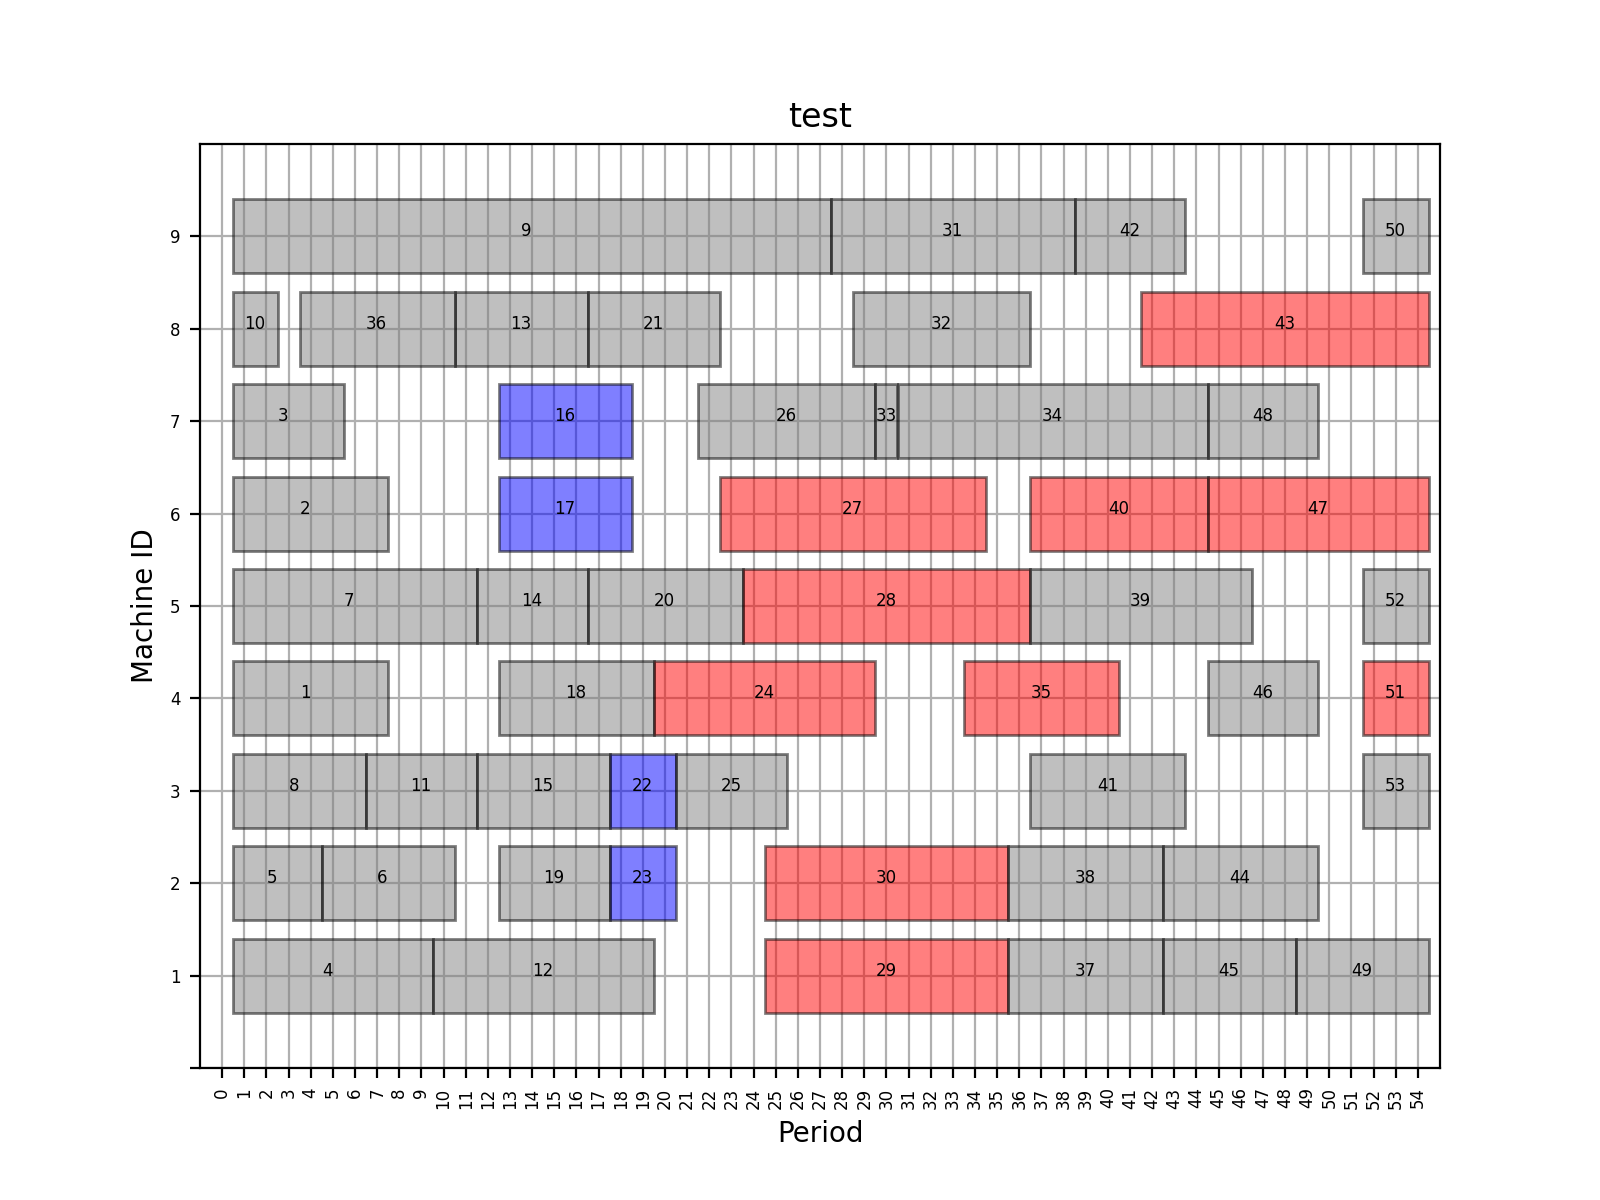
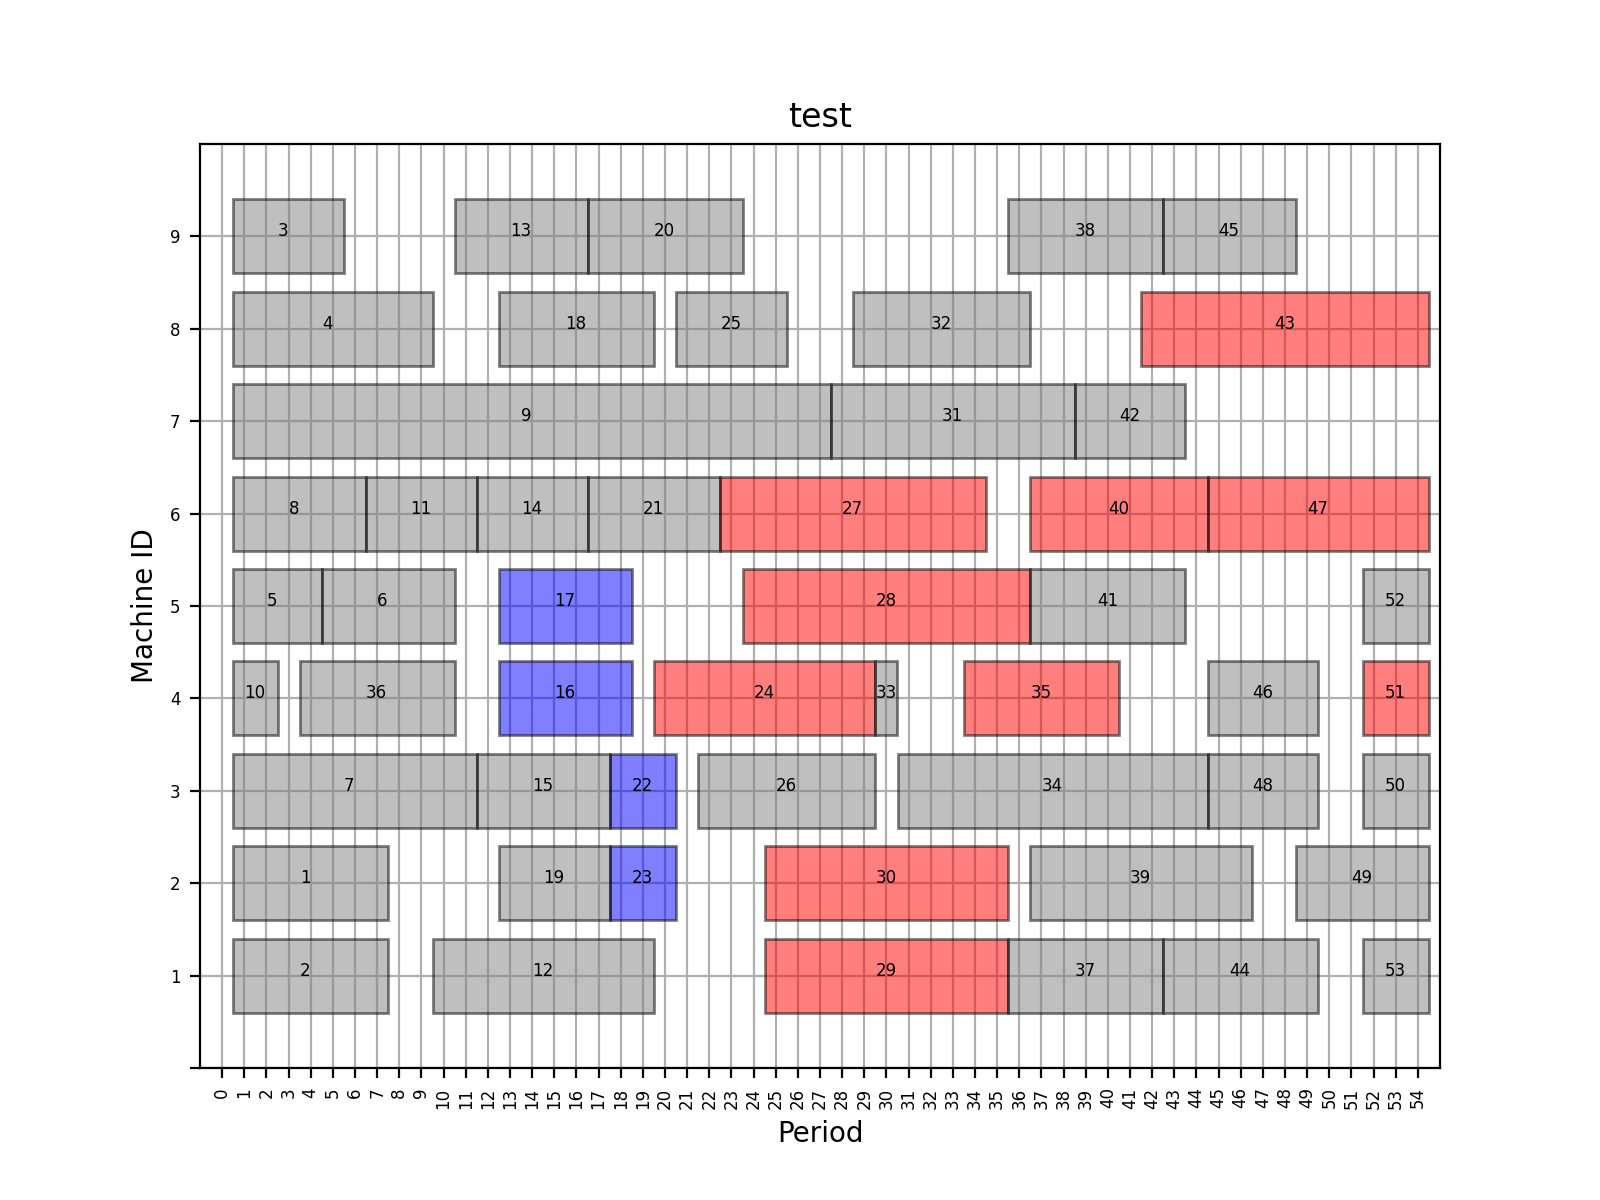
Relabeling

diff --git a/Scripts/Data.py b/Scripts/Data.py
@@ -16,17 +16,17 @@ import matplotlib.pyplot as plt
 from matplotlib.patches import Rectangle
 
 class RawSchedule:
-	def __init__(self, scheduleFile, roomInfoFile):
-		self.ArrivalKey = "arrOrdinal"
-		self.DepartureKey = "depOrdinal"
+	def __init__(self, scheduleFile, machineInfoFile):
+		self.StartKey = "startOrdinal"
+		self.FinishKey = "finishOrdinal"
 		self.IsLockedKey = "IsLocked"
 		self.AdjacencyGroupKey = "AdjacencyGroup"
-		self.RoomKey = "Room"
+		self.MachineKey = "Machine"
 		self.LengthKey = "Length"
-		self.RoomNumberKey = "RoomNumber"
-		self.GroupNameKey = "GuestGroupName"
+		self.MachineNumberKey = "MachineId"
+		self.GroupNameKey = "JobId"
 		self.Schedule = self.ReadFile(scheduleFile, True)
-		self.RoomInfo = self.ReadFile(roomInfoFile, False)
+		self.MachineInfo = self.ReadFile(machineInfoFile, False)
 	
 	def ReadFile(self, filePath, reformat):
 		df = pd.read_csv(filePath)
@@ -35,14 +35,14 @@ class RawSchedule:
 		return(df)
 	
 	def ReformatSchedule(self, sched):
-		sched["Arrival"] = pd.to_datetime(sched["RoomArrival"]).dt.date
-		sched["Departure"] = pd.to_datetime(sched["RoomDeparture"]).dt.date
-		sched = sched.drop(["RoomArrival","RoomDeparture"],axis=1)
+		sched["Start"] = pd.to_datetime(sched["JobStart"]).dt.date
+		sched["Finish"] = pd.to_datetime(sched["JobFinish"]).dt.date
+		sched = sched.drop(["JobStart","JobFinish"],axis=1)
 		# convert the dates to ordinal values. These are convenient for operating on the intervals.
-		sched[self.ArrivalKey] = sched["Arrival"].apply(lambda x: x.toordinal())
-		sched[self.DepartureKey] = sched["Departure"].apply(lambda x: x.toordinal())
+		sched[self.StartKey] = sched["Start"].apply(lambda x: x.toordinal())
+		sched[self.FinishKey] = sched["Finish"].apply(lambda x: x.toordinal())
 		# compute the length of the Jobs, needed for the sorting in the heuristic approaches.
-		sched['Length'] = sched[self.DepartureKey] - sched[self.ArrivalKey]
+		sched['Length'] = sched[self.FinishKey] - sched[self.StartKey]
 		sched["DummyLength"] = np.zeros(len(sched))
 		
 		return(sched)
@@ -50,12 +50,12 @@ class RawSchedule:
 
 class InputData:
 	def __init__(self, minJob = 5, maxDummy = 3):
-		self.Rooms = []
+		self.Machines = []
 		
-		self.NumberOfRooms = 0
+		self.NumberOfMachines = 0
 		
-		self.AdjacentRooms = []
-		self.RoomAdjacencyLists = {}
+		self.AdjacentMachines = []
+		self.MachineAdjacencyLists = {}
 		self.JobAdjacencyLists = {}
 		
 		self.NumberOfRealReservations = 0
@@ -68,7 +68,7 @@ class InputData:
 		self.JobDict = {}
 		self.StartDict = {}
 		self.LengthDict = {}
-		self.FixedRooms = {}
+		self.FixedMachines = {}
 		
 		self.DummyJobs = {}
 		
@@ -91,37 +91,15 @@ class InputData:
 		self.TestMaxName = "test_max"
 	
 
-	def LoadFromJson(self, jsonInput):
-		# do some stuff... 
-		return()
-	
-	def AddNewReservation(self, startDate, length):
-		self.ClearDummyJobs()
-		key = len(self.JobDict)
-		
-		self.GroupDict[key] = self.TestMaxName
-		
-		self.JobDict[key] = [startDate, startDate + length]
-		self.StartDict[key] = startDate
-		self.LengthDict[key] = length
-		
-		return(key)
-	
-	
-	def RemoveNewReservation(self, key):
-		del(self.GroupDict[key])
-		del(self.JobDict[key])
-		del(self.StartDict[key])
-		del(self.LengthDict[key])
-		return()
+
 	
 	
 	def FillAdjacencyInfo(self, rawInput):
 		sched = rawInput.Schedule
-		roomInfo = rawInput.RoomInfo
+		MachineInfo = rawInput.MachineInfo
 		
 		adjGrpKey = rawInput.AdjacencyGroupKey
-		roomKey = rawInput.RoomKey
+		MachineKey = rawInput.MachineKey
 			
 		adjacentJobDict = {}
 		for i in range(len(sched)):
@@ -133,22 +111,22 @@ class InputData:
 		
 		self.JobAdjacencyLists = adjacentJobDict
 		
-		for i in range(len(roomInfo)-1):
-			for j in range(i+1,len(roomInfo)):
-				if roomInfo[str(roomInfo[roomKey][j])][i] == 1:
-					if roomInfo[roomKey][i] not in self.RoomAdjacencyLists:
-						self.RoomAdjacencyLists[roomInfo[roomKey][i]] = []
-						self.AdjacentRooms.append(roomInfo[roomKey][i])
+		for i in range(len(MachineInfo)-1):
+			for j in range(i+1,len(MachineInfo)):
+				if MachineInfo[str(MachineInfo[MachineKey][j])][i] == 1:
+					if MachineInfo[MachineKey][i] not in self.MachineAdjacencyLists:
+						self.MachineAdjacencyLists[MachineInfo[MachineKey][i]] = []
+						self.AdjacentMachines.append(MachineInfo[MachineKey][i])
 				
-					if roomInfo[roomKey][j] not in self.RoomAdjacencyLists:
-						self.RoomAdjacencyLists[roomInfo[roomKey][j]] = []
-						self.AdjacentRooms.append(roomInfo[roomKey][j])
+					if MachineInfo[MachineKey][j] not in self.MachineAdjacencyLists:
+						self.MachineAdjacencyLists[MachineInfo[MachineKey][j]] = []
+						self.AdjacentMachines.append(MachineInfo[MachineKey][j])
 		
-					self.RoomAdjacencyLists[roomInfo[roomKey][i]].append(roomInfo[roomKey][j])
-					self.RoomAdjacencyLists[roomInfo[roomKey][j]].append(roomInfo[roomKey][i])
+					self.MachineAdjacencyLists[MachineInfo[MachineKey][i]].append(MachineInfo[MachineKey][j])
+					self.MachineAdjacencyLists[MachineInfo[MachineKey][j]].append(MachineInfo[MachineKey][i])
 		
-		self.Rooms = np.unique(np.array(roomInfo[roomKey]))
-		self.NumberOfRooms = len(self.Rooms)
+		self.Machines = np.unique(np.array(MachineInfo[MachineKey]))
+		self.NumberOfMachines = len(self.Machines)
 
 	
 	def FillStartAndEndInfo(self, rawInfo, endExtension = -1, startExtension = -1):	
@@ -160,8 +138,8 @@ class InputData:
 		ACTUALLY let the limit be an input, and then it will go to 
 		min(limit, maxEnd + minJob + 1)
 		'''
-		startDates = np.unique(np.array(rawInfo.Schedule[rawInfo.ArrivalKey]))
-		endDates = np.unique(np.array(rawInfo.Schedule[rawInfo.DepartureKey]))
+		startDates = np.unique(np.array(rawInfo.Schedule[rawInfo.StartKey]))
+		endDates = np.unique(np.array(rawInfo.Schedule[rawInfo.FinishKey]))
 		self.MinStart = min(startDates)
 		self.MaxStart = max(startDates)
 		self.MaxEnd = max(endDates)
@@ -179,15 +157,15 @@ class InputData:
 	def FillRealJobInfo(self, rawInfo):
 		sched = rawInfo.Schedule
 		self.NumberOfRealReservations = len(sched)
-		arr = rawInfo.ArrivalKey
-		dep = rawInfo.DepartureKey
+		arr = rawInfo.StartKey
+		dep = rawInfo.FinishKey
 		for i in range(self.NumberOfRealReservations):
 			self.GroupDict[i] = sched[rawInfo.GroupNameKey][i]
 			self.JobDict[i] = [sched[arr][i],sched[dep][i]]
 			self.StartDict[i] = sched[arr][i]
 			self.LengthDict[i] = sched[rawInfo.LengthKey][i]
 			if sched[rawInfo.IsLockedKey][i] == 1:
-				self.FixedRooms[i] = int(sched[rawInfo.RoomNumberKey][i])
+				self.FixedMachines[i] = int(sched[rawInfo.MachineNumberKey][i])
 	
 	
 	
@@ -266,32 +244,32 @@ class InputData:
 			size = (12,12)
 			
 		fig, ax = plt.subplots(figsize = size)   
-		ax.set_ylim(1,self.NumberOfRooms + 1)
+		ax.set_ylim(1,self.NumberOfMachines + 1)
 		ax.set_xlim(-1, self.ScheduleEnd-self.ScheduleStart + 1)
 		ax.set_axisbelow(True)
-		roomMap = {}
+		MachineMap = {}
 		maxY = 0
 		rmSigns = {}
-		for i in range(self.NumberOfRooms):
-			roomMap[self.Rooms[i]] = i + 1
-			rmSigns[self.Rooms[i]] = 1.0
+		for i in range(self.NumberOfMachines):
+			MachineMap[self.Machines[i]] = i + 1
+			rmSigns[self.Machines[i]] = 1.0
 			maxY =i+2
 	
 		tcks = np.arange(self.ScheduleStart, self.ScheduleEnd + 1)
 		tcks = [t - self.ScheduleStart for t in tcks]
-		rmtcks = np.arange(self.NumberOfRooms + 1)
+		rmtcks = np.arange(self.NumberOfMachines + 1)
 		
 		#plt.text(0.5,1,"Start", fontsize = fontSize)
 		#plt.text(self.ScheduleEnd - self.ScheduleStart - 0.5,1,"end", fontsize = fontSize)	
 		if self.BoundSchedule:
-			ax.add_patch(Rectangle((0,0), width = 0.5, height=self.NumberOfRooms+1, alpha=0.3,
+			ax.add_patch(Rectangle((0,0), width = 0.5, height=self.NumberOfMachines+1, alpha=0.3,
 									   edgecolor = 'black', facecolor = 'black'))
-			ax.add_patch(Rectangle((self.ScheduleEnd - self.ScheduleStart + 0.5,0), width = 0.5, height=self.NumberOfRooms+1, alpha=0.3,
+			ax.add_patch(Rectangle((self.ScheduleEnd - self.ScheduleStart + 0.5,0), width = 0.5, height=self.NumberOfMachines+1, alpha=0.3,
 									   edgecolor = 'black', facecolor = 'black'))
 		
 		
 		for i in assignments:
-			rm = roomMap[assignments[i]]
+			rm = MachineMap[assignments[i]]
 			JobLength = test[1] 
 			start = test[0]
 			if i in self.JobDict:
@@ -299,7 +277,7 @@ class InputData:
 				start = self.JobDict[i][0]
 			
 			color = 'gray'
-			if i in self.FixedRooms:
+			if i in self.FixedMachines:
 				color = 'red'
 			for s in self.JobAdjacencyLists:
 				if i in self.JobAdjacencyLists[s]:
@@ -327,7 +305,7 @@ class InputData:
 		
 		plt.grid()
 		labels = ['']
-		for r in self.Rooms:
+		for r in self.Machines:
 			labels.append(str(r))
 		plt.xticks(ticks = tcks, labels = tcks, rotation='vertical', fontsize = 6)
 		plt.yticks(ticks = rmtcks,labels = labels, fontsize = 6)

diff --git a/Scripts/Optimization.py b/Scripts/Optimization.py
@@ -76,7 +76,7 @@ class Solver:
 			dummy = i in self.DummyJobs
 			if dummy and checkDummyAssignments:
 				
-				for j in rooms:
+				for j in Machines:
 				
 					dVal = self.Model.getVal(self.DummyAssignmentVars[i,j])
 					aVal = self.Model.getVal(self.AssignmentVars[i,j])
@@ -89,7 +89,7 @@ class Solver:
 					newSol.AssignmentValues[i,j] = aVal
 						
 			elif not dummy:
-				for j in self.Inputs.Rooms:
+				for j in self.Inputs.Machines:
 					aVal = self.Model.getVal(self.AssignmentVars[i,j])
 					if aVal > 0.99:
 						self.OptimizationAssignments[i] = j
@@ -139,7 +139,7 @@ class Solver:
 		obj = 0.0
 		
 		if self.OptimizeGaps:
-			obj = quicksum(self.ObjectiveCoefficients[s]*self.AssignmentVars[s,r] for s in self.ObjectiveCoefficients for r in self.Inputs.Rooms) + 10*quicksum(self.SlackOddGroups[s,r] for s in self.AdjacentReservations for r in self.Inputs.AdjacentRooms)
+			obj = quicksum(self.ObjectiveCoefficients[s]*self.AssignmentVars[s,r] for s in self.ObjectiveCoefficients for r in self.Inputs.Machines) + 10*quicksum(self.SlackOddGroups[s,r] for s in self.AdjacentReservations for r in self.Inputs.AdjacentMachines)
 
 		self.Model.setObjective(obj,"minimize")
 
@@ -182,22 +182,22 @@ class Solver:
 	def AddAssignmentModel(self, addDummyIncentiveVars, dummyLimits):
 		
 		for s in self.Inputs.JobDict:
-			for r in self.Inputs.Rooms:
+			for r in self.Inputs.Machines:
 				name = str(s)+ ", " + str(r)
 				self.AssignmentVars[s,r] = self.Model.addVar(name,vtype= 'B')
 
 
 		for s in self.Inputs.JobDict:
 			
-			if s in self.Inputs.FixedRooms:
-				self.Model.addCons(self.AssignmentVars[s,self.Inputs.FixedRooms[s]] == 1)
+			if s in self.Inputs.FixedMachines:
+				self.Model.addCons(self.AssignmentVars[s,self.Inputs.FixedMachines[s]] == 1)
 				
 			if self.Inputs.GroupDict[s] == -1: # i.e. if it's a dummy Job
 				
 				length = self.Inputs.LengthDict[s]
 				self.DummyJobs.append(s)
 		
-				maxGaps = self.Inputs.NumberOfRooms
+				maxGaps = self.Inputs.NumberOfMachines
 				
 				'''
 				TODO - Think about whether this is necessary! 
@@ -220,7 +220,7 @@ class Solver:
 					print("reduced the dummy limits")
 					maxGaps = dummyLimits[(self.Inputs.JobDict[s][0], length)]
 				
-				self.Model.addCons(quicksum(self.AssignmentVars[s,r] for r in self.Inputs.Rooms) <= maxGaps)
+				self.Model.addCons(quicksum(self.AssignmentVars[s,r] for r in self.Inputs.Machines) <= maxGaps)
 				# this incentivizes gaps longer than min Job length
 				extra = 0
 				if length <= self.Inputs.MinJob + 2:
@@ -231,14 +231,14 @@ class Solver:
 				if addDummyIncentiveVars:
 					
 				
-					for r in rooms:
+					for r in Machines:
 						self.DummyIncentiveVars[s,r] = m.addVar(name,vtype= 'B')
 						self.Model.addCons(self.DummyIncentiveVars[s,r] <= self.AssignmentVars[s,r])
 				
-					self.Model.addCons(quicksum(self.DummyIncentiveVars[s,r] for r in self.Inputs.Rooms) <= 1)				
+					self.Model.addCons(quicksum(self.DummyIncentiveVars[s,r] for r in self.Inputs.Machines) <= 1)				
 	
 			else:
-				self.Model.addCons(quicksum(self.AssignmentVars[s,r] for r in self.Inputs.Rooms) == 1)
+				self.Model.addCons(quicksum(self.AssignmentVars[s,r] for r in self.Inputs.Machines) == 1)
 		return()
 	
 	
@@ -262,15 +262,15 @@ class Solver:
 			for s in aJobs:
 				adjacentReservations.append(s)
 				connectedJobs = [cnctdJob for cnctdJob in aJobs if cnctdJob != s] 
-				for r in self.Inputs.RoomAdjacencyLists:
+				for r in self.Inputs.MachineAdjacencyLists:
 					Oname = str(s)+ ", " + str(r) + '_SlackOdd'
 					slackOddGroups[s,r] = self.Model.addVar(Oname,vtype= 'B',lb = 0,ub = oddUb)
-					self.Model.addCons(self.AssignmentVars[s,r] <= quicksum(self.AssignmentVars[cs,ar] for cs in connectedJobs for ar in self.Inputs.RoomAdjacencyLists[r]) + slackOddGroups[s,r])
+					self.Model.addCons(self.AssignmentVars[s,r] <= quicksum(self.AssignmentVars[cs,ar] for cs in connectedJobs for ar in self.Inputs.MachineAdjacencyLists[r]) + slackOddGroups[s,r])
 		
-				self.Model.addCons(quicksum(self.AssignmentVars[s,r] for r in self.Inputs.AdjacentRooms) >= 1 - quicksum(slackOddGroups[s,r] for r in self.Inputs.AdjacentRooms))
+				self.Model.addCons(quicksum(self.AssignmentVars[s,r] for r in self.Inputs.AdjacentMachines) >= 1 - quicksum(slackOddGroups[s,r] for r in self.Inputs.AdjacentMachines))
 	
 			# sum of all odd slacks <= 1     
-			self.Model.addCons(quicksum(slackOddGroups[s,r] for s in aJobs for r in self.Inputs.AdjacentRooms) <= 1)
+			self.Model.addCons(quicksum(slackOddGroups[s,r] for s in aJobs for r in self.Inputs.AdjacentMachines) <= 1)
 	
 		self.SlackOddGroups = slackOddGroups
 		self.AdjacentReservations = adjacentReservations
@@ -278,7 +278,7 @@ class Solver:
 		
 		
 	def AddCliqueConstraints(self, addDummyIncentives):
-		for r in self.Inputs.Rooms:
+		for r in self.Inputs.Machines:
 			#k = 0
 			for c in self.Cliques:
 				self.Model.addCons(quicksum(self.AssignmentVars[s,r] for s in c) == 1)
@@ -288,7 +288,7 @@ class Solver:
 		if addDummyIncentives:
 			for c in cliques:
 				dummies = [s for s in c if s in self.DummyJobs]
-				self.Model.addCons(quicksum(self.DummyIncentiveVars[s,r] for s in dummies for r in self.Inputs.Rooms) <= 1)
+				self.Model.addCons(quicksum(self.DummyIncentiveVars[s,r] for s in dummies for r in self.Inputs.Machines) <= 1)
 	
 		return()	
 	

diff --git a/JobAllocation.py b/JobAllocation.py
@@ -31,7 +31,7 @@ data.FillDummyJobs()
 
 # optimize initial schedule
 m = opt.Solver(data)
-m.OptimizeGaps = True
+m.OptimizeGaps = False
 m.OptimizeSchedule()
 
 '''
